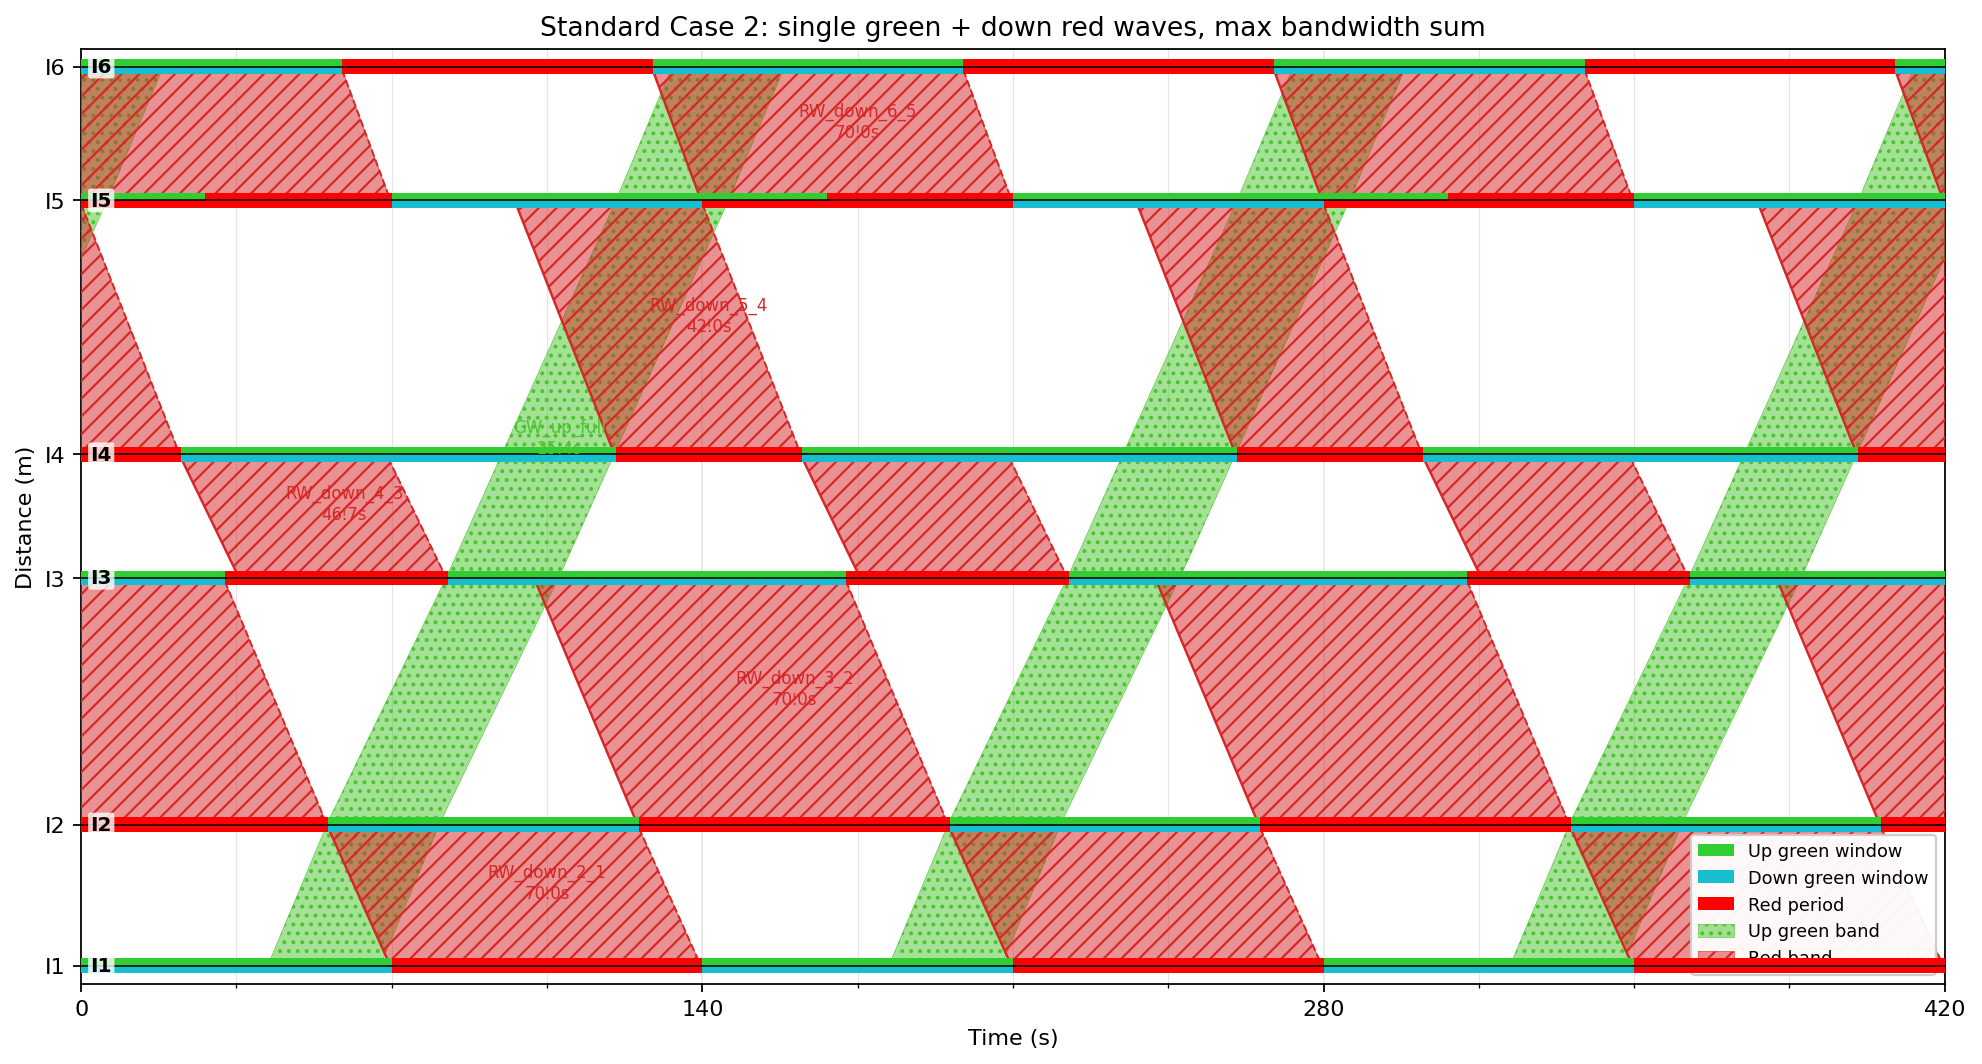
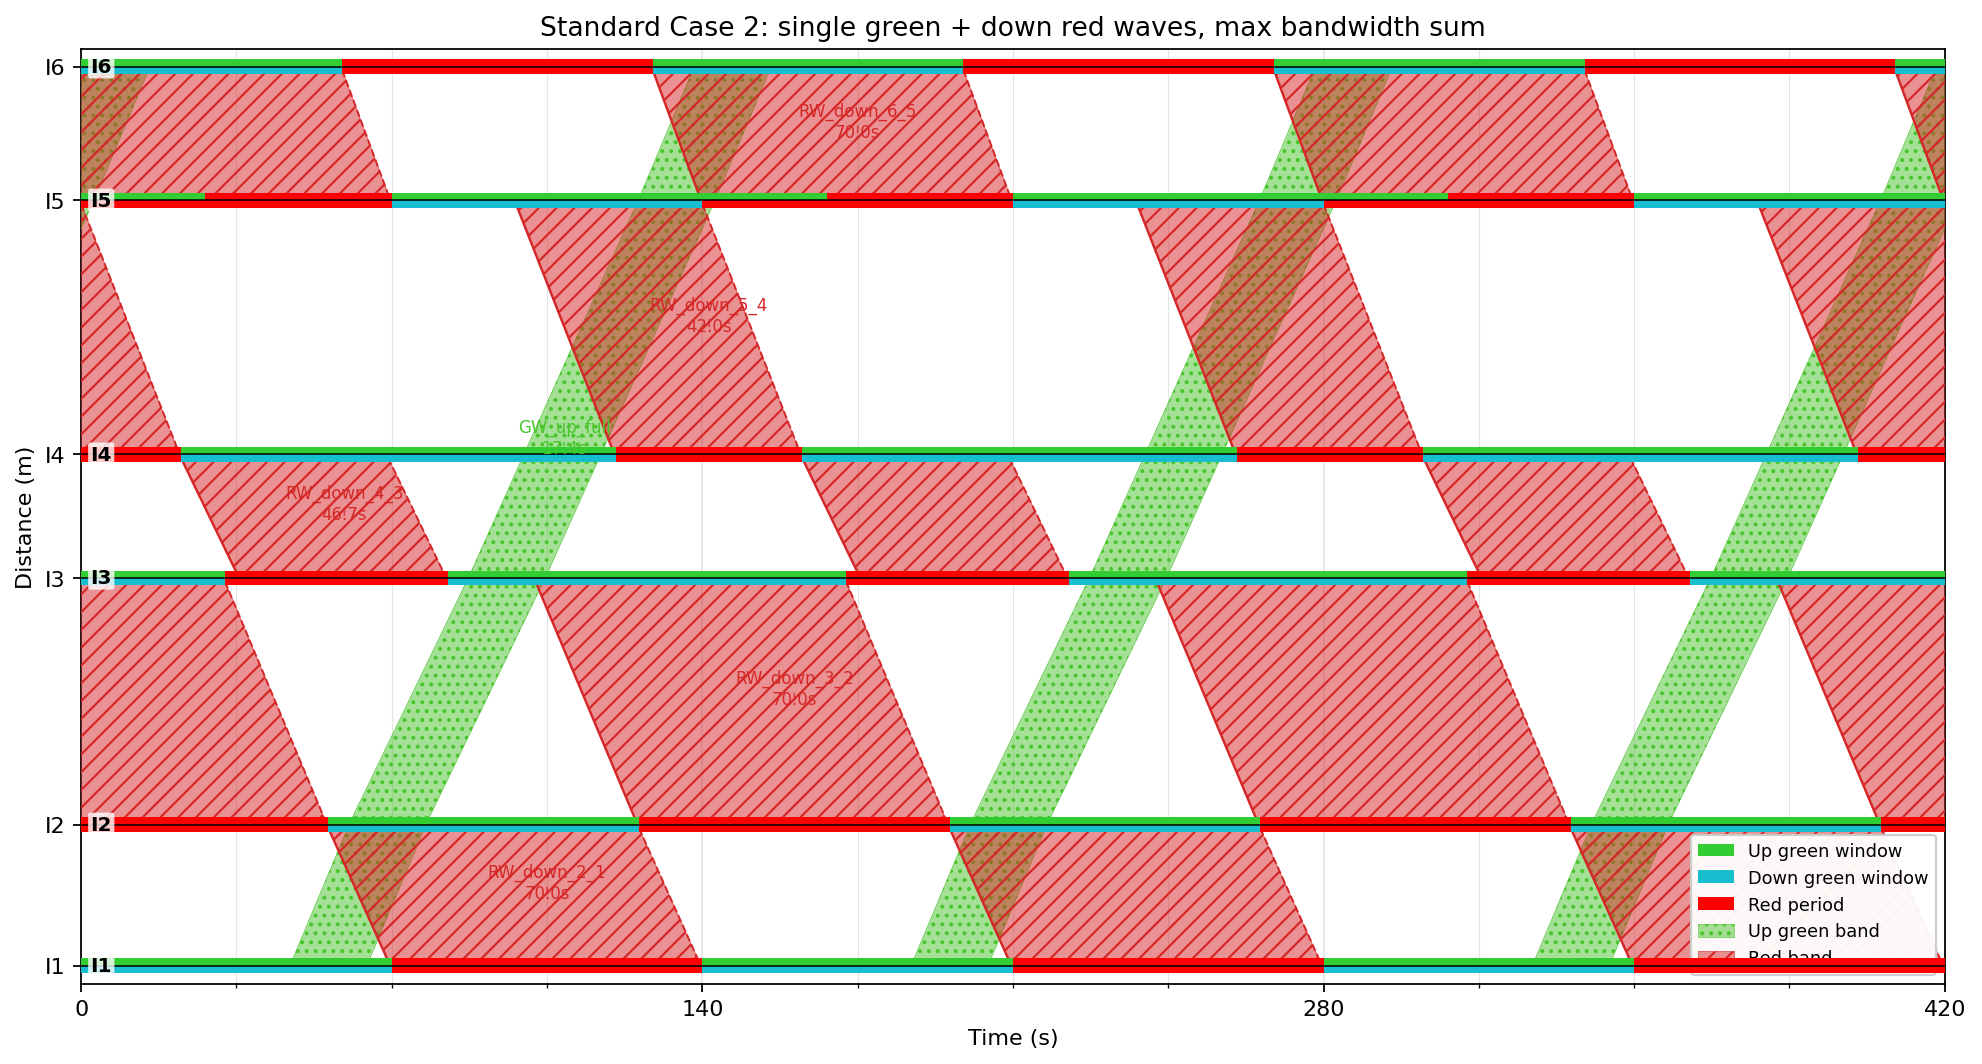
Use objective margin hard3 soft5 in standard case 2

diff --git a/examples/generate_diagrams.py b/examples/generate_diagrams.py
@@ -192,8 +192,6 @@ def _standard_demand(did: str, kind: str, direction: str, nodes, weight: float =
         "max_bands": 1,
         "weight": weight,
     }
-    if kind == "green":
-        obj["margin"] = {"delta_min_s": 0.0, "coef": 0.0}
     return obj
 
 
@@ -276,8 +274,14 @@ def _run_standard_objective_scenarios() -> None:
         problem["objective"]["pareto"] = {"num_points": 0, "relax_max": 0.0, "topk_grids": 0}
         # 这些是 objective 对照场景，默认去掉只针对原上行带宽的 global constraints。
         problem["global_constraints"] = []
-        # Case 2 额外要求：全局上行绿波带宽 >= 15s。
+        # Case 2 使用 objective 级 margin：硬 3s，软 5s。
+        # 同时额外要求：全局上行绿波带宽 >= 15s。
         if name == "standard_case_02_single_green_single_red_sum":
+            problem["objective"]["margin_default"] = {
+                "delta_min_s": 5.0,
+                "coef": 1.0,
+                "hard_min_s": 3.0,
+            }
             problem["global_constraints"] = [{
                 "id": "up_green_bandwidth_min_15",
                 "terms": [{
